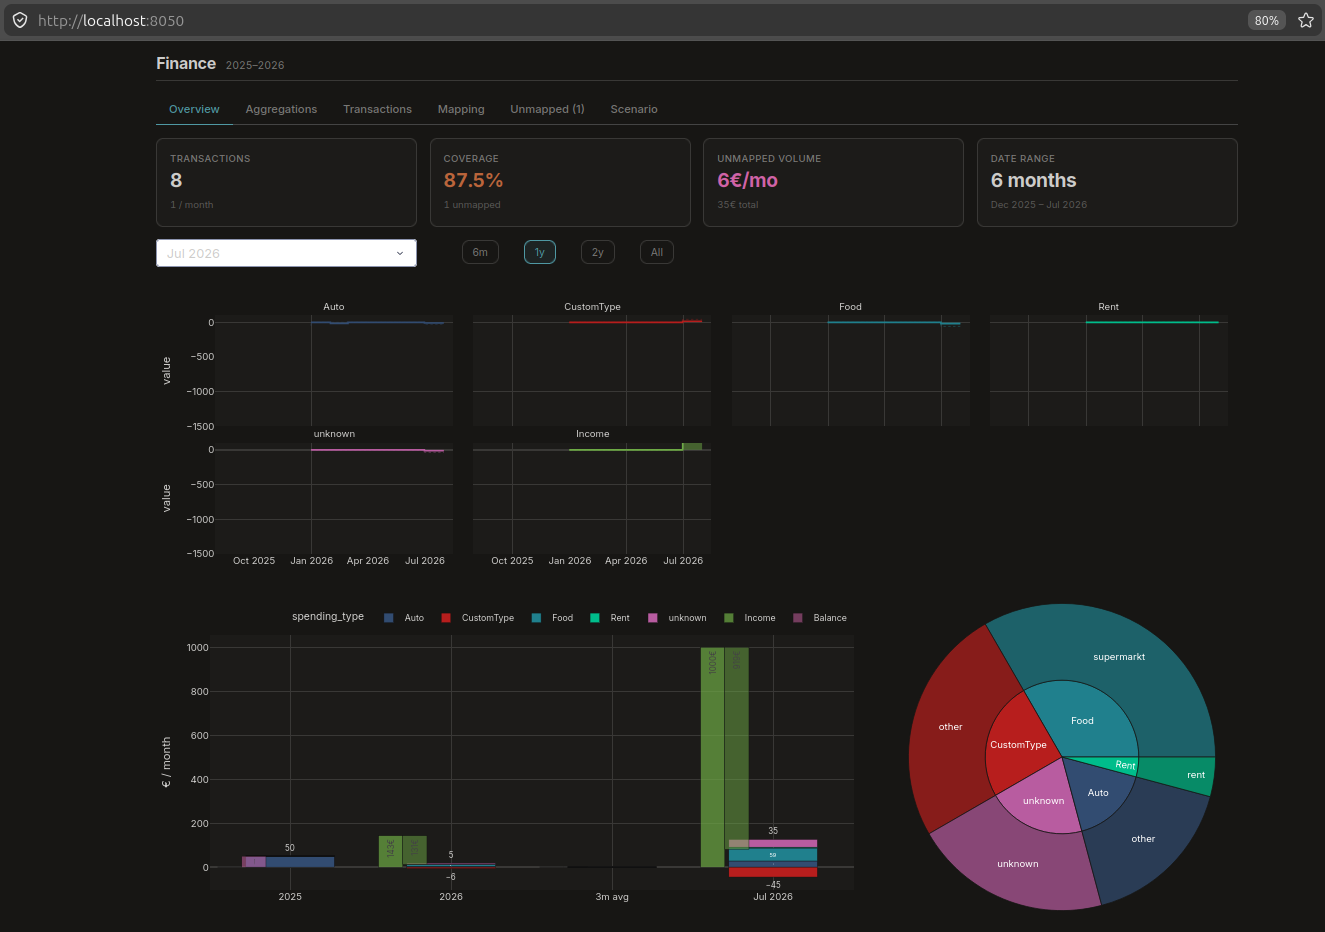
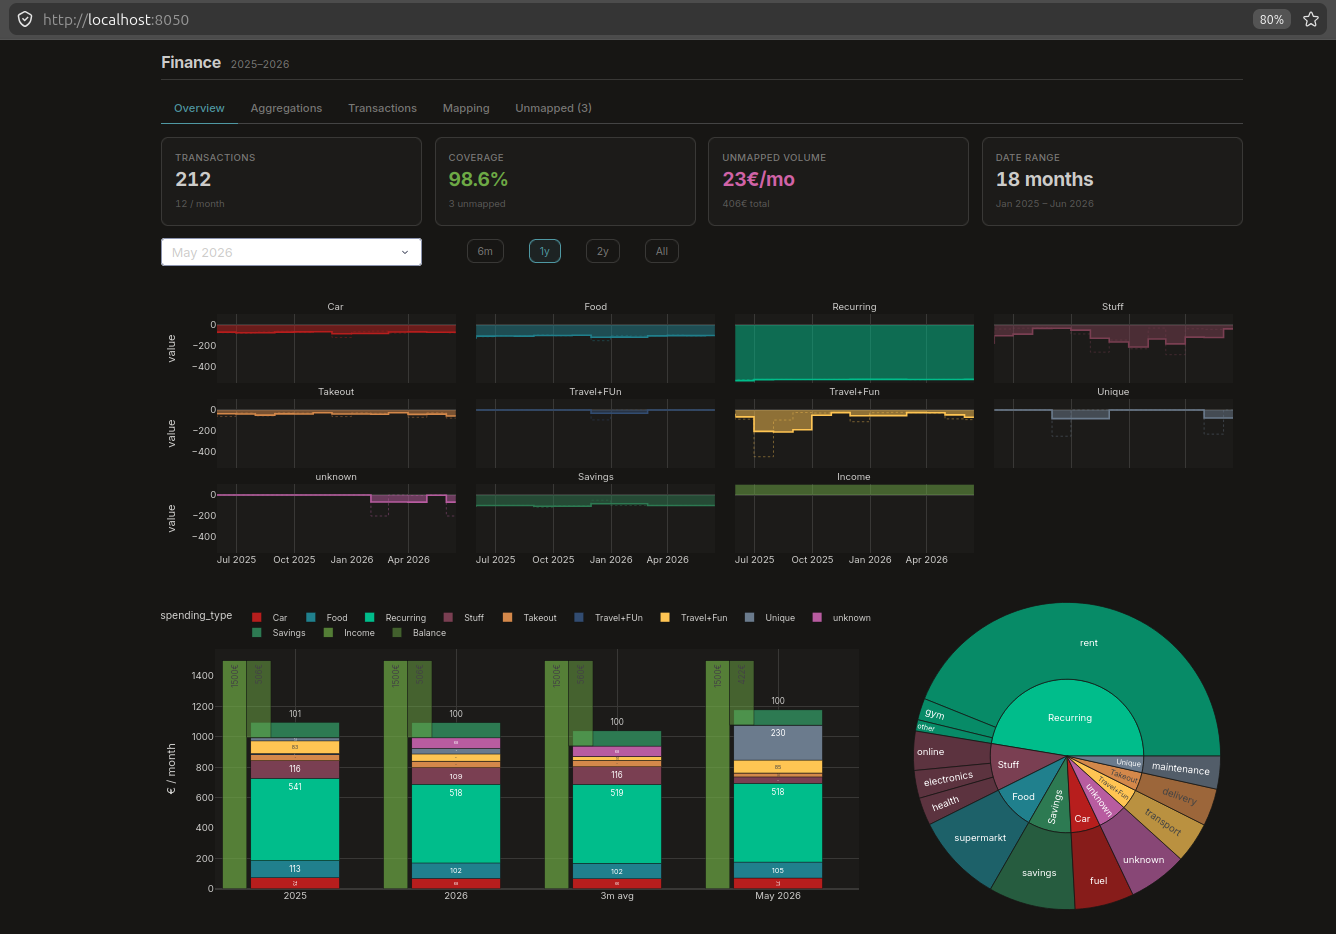
made n8n integration and scenario tab optional and disabled by default; fixed some sample data,, uodated readme

diff --git a/finance_dashboard/app.py b/finance_dashboard/app.py
@@ -49,8 +49,10 @@ AVG_WINDOW = CONFIG["analysis"]["avg_window"]
 THEME = CONFIG["app"]["theme"]
 EXTERNAL_STYLESHEETS = CONFIG["app"]["external_stylesheets"]
 GRAPH_CONFIG = CONFIG["app"]["graphs"]
-SCENARIO_YEAR = CONFIG["scenarios"]["reference_year"]
-SCENARIO_EXCLUDE_TYPES = set(CONFIG["scenarios"]["exclude_types"])
+SCENARIOS_ENABLED = isinstance(CONFIG.get("scenarios"), dict)
+SCENARIO_YEAR = CONFIG["scenarios"].get("reference_year", 2026) if SCENARIOS_ENABLED else 2026
+SCENARIO_EXCLUDE_TYPES = set(CONFIG["scenarios"].get("exclude_types", ["Income"])) if SCENARIOS_ENABLED else set()
+N8N_ENABLED = isinstance(CONFIG.get("n8n"), dict)
 SERVER_CONFIG = CONFIG["app"]["server"]
 
 # ── Data Pipeline ─────────────────────────────────────────────────────────
@@ -136,37 +138,41 @@ if ESSENTIALITY_FILE.exists():
         key = f"{row['type']}/{row['subtype']}"
         essentiality_defaults[key] = row["essentiality"]
 
-for (spending_type, subtype), col_data in costs_2025_subtypes.items():
-    if spending_type in SCENARIO_EXCLUDE_TYPES:  # Skip configured excluded types for scenario planning
-        continue
-    baseline_amount = col_data.mean()
-    key = f"{spending_type}/{subtype}"
-    baseline_data.append({
-        "type": spending_type,
-        "subtype": subtype,
-        "baseline": -baseline_amount,  # Flip sign: show expenses as positive
-        "scenario_amount": -baseline_amount,
-        "delta": 0,
-        "essentiality": essentiality_defaults.get(key, "adjustable"),
-    })
+if SCENARIOS_ENABLED:
+    for (spending_type, subtype), col_data in costs_2025_subtypes.items():
+        if spending_type in SCENARIO_EXCLUDE_TYPES:  # Skip configured excluded types for scenario planning
+            continue
+        baseline_amount = col_data.mean()
+        key = f"{spending_type}/{subtype}"
+        baseline_data.append({
+            "type": spending_type,
+            "subtype": subtype,
+            "baseline": -baseline_amount,  # Flip sign: show expenses as positive
+            "scenario_amount": -baseline_amount,
+            "delta": 0,
+            "essentiality": essentiality_defaults.get(key, "adjustable"),
+        })
 
-baseline_df = pd.DataFrame(baseline_data).sort_values(["type", "subtype"]).reset_index(drop=True)
+    baseline_df = pd.DataFrame(baseline_data).sort_values(["type", "subtype"]).reset_index(drop=True)
 
-# Prepare initial table data for scenario tab
-initial_scenario_table_data = []
-for _, row in baseline_df.iterrows():
-    baseline_amount = row["baseline"]
-    initial_scenario_table_data.append({
-        "type": row["type"],
-        "subtype": row["subtype"],
-        "essentiality": row["essentiality"],
-        "baseline": round(baseline_amount, 0),
-        "scenario_amount": round(baseline_amount, 0),
-        "delta": 0,
-    })
+    # Prepare initial table data for scenario tab
+    initial_scenario_table_data = []
+    for _, row in baseline_df.iterrows():
+        baseline_amount = row["baseline"]
+        initial_scenario_table_data.append({
+            "type": row["type"],
+            "subtype": row["subtype"],
+            "essentiality": row["essentiality"],
+            "baseline": round(baseline_amount, 0),
+            "scenario_amount": round(baseline_amount, 0),
+            "delta": 0,
+        })
 
-# Calculate average monthly income for income ceiling indicator
-income_2025 = -df_2025[df_2025[COLS["type"]] == "Income"][COLS["amount"]].sum() / max(df_2025[COLS["value_date"]].dt.month.nunique(), 1) if not df_2025.empty else 0
+    # Calculate average monthly income for income ceiling indicator
+    income_2025 = -df_2025[df_2025[COLS["type"]] == "Income"][COLS["amount"]].sum() / max(df_2025[COLS["value_date"]].dt.month.nunique(), 1) if not df_2025.empty else 0
+else:
+    initial_scenario_table_data = []
+    income_2025 = 0
 
 # ── App Setup ─────────────────────────────────────────────────────────────
 
@@ -657,12 +663,12 @@ tab_unmapped = dbc.Tab(
                     className="section-sub",
                 ),
                 dcc.Graph(id="unknowns-chart", figure=make_unknowns_bar(unknowns)),
-            ], md=7),
+            ], md=12 if not N8N_ENABLED else 7),
             dbc.Col([
                 html.H5("n8n Export", className="section-title"),
                 html.P(
                     "Unknown transactions are auto-exported to "
-                    "data/unknowns_for_n8n.json on startup. "
+                    f"{CONFIG['paths']['unknowns_for_n8n']} on startup. "
                     "Use this file as webhook payload in your n8n workflow.",
                     className="section-sub",
                 ),
@@ -678,7 +684,7 @@ tab_unmapped = dbc.Tab(
                         ], style={"fontSize": "13px"}),
                     ])
                 ], className="kpi-card", style={"marginTop": "16px"}),
-            ], md=5),
+            ], md=5) if N8N_ENABLED else None,
         ]),
     ],
 )
@@ -701,7 +707,7 @@ app.layout = html.Div([
     dbc.Tabs(
         id="main-tabs",
         active_tab="tab-overview",
-        children=[tab_overview, tab_aggregates,tab_transactions, tab_mapping, tab_unmapped, scenario_layout(initial_scenario_table_data)],
+        children=[tab_overview, tab_aggregates, tab_transactions, tab_mapping, tab_unmapped] + ([scenario_layout(initial_scenario_table_data)] if SCENARIOS_ENABLED else []),
         className="main-tabs",
     ),
 
@@ -711,7 +717,7 @@ app.layout = html.Div([
         "overrides": {},
         "essentiality": essentiality_defaults,  # Initialize with CSV defaults
         "baseline_income": float(income_2025) if income_2025 > 0 else -float(income_2025),
-    }),
+    }) if SCENARIOS_ENABLED else None,
 ], className="app-container")
 
 

diff --git a/finance_dashboard/config.py b/finance_dashboard/config.py
@@ -22,10 +22,7 @@ DEFAULT_CONFIG: dict[str, Any] = {
         "rolling_window_months": 3,
         "reorder_last": ["Savings", "Income"],
     },
-    "scenarios": {
-        "reference_year": 2026,
-        "exclude_types": ["Income"],
-    },
+    "scenarios": None,
     "app": {
         "theme": "DARKLY",
         "external_stylesheets": [
@@ -33,6 +30,7 @@ DEFAULT_CONFIG: dict[str, Any] = {
         ],
         "graphs": {
             "display_mode_bar": False,
+            "timeseries_y_range": [-1500, 100],
         },
         "server": {
             "host": "0.0.0.0",
@@ -40,9 +38,7 @@ DEFAULT_CONFIG: dict[str, Any] = {
             "debug": True,
         },
     },
-    "n8n": {
-        "unknowns_output": "data/unknowns_for_n8n.json",
-    },
+    "n8n": None,
 }
 
 
@@ -64,14 +60,18 @@ def _resolve_path(value: str | Path, root: Path) -> Path:
 def _resolve_data_paths(config: dict[str, Any]) -> dict[str, Path]:
     data_cfg = config["data"]
     data_dir = _resolve_path(data_cfg["base_dir"], ROOT_DIR)
-    return {
+    paths = {
         "data_dir": data_dir,
         "mapping_file": _resolve_path(data_cfg["mapping_file"], data_dir),
         "essentiality_file": _resolve_path(data_cfg["essentiality_file"], data_dir),
         "raw_exports_dir": _resolve_path(data_cfg["raw_exports_dir"], ROOT_DIR),
         "ledger_dir": _resolve_path(data_cfg["ledger_dir"], ROOT_DIR),
-        "unknowns_for_n8n": _resolve_path(config["n8n"]["unknowns_output"], ROOT_DIR),
     }
+    if isinstance(config.get("n8n"), dict):
+        paths["unknowns_for_n8n"] = _resolve_path(config["n8n"]["unknowns_output"], ROOT_DIR)
+    else:
+        paths["unknowns_for_n8n"] = None
+    return paths
 
 
 def load_config(config_path: Path | None = None) -> dict[str, Any]:

diff --git a/finance_dashboard/charts.py b/finance_dashboard/charts.py
@@ -5,6 +5,7 @@ All chart creation logic isolated here for testability.
 import pandas as pd
 import plotly.express as px
 import plotly.graph_objects as go
+from finance_dashboard.config import CONFIG
 from finance_dashboard.data_loader import COLS
 
 # ── Color Palette (finance-appropriate: cool, precise) ─────────────────────
@@ -99,7 +100,8 @@ def make_timeseries(
         min_dt = pd.Timestamp(selected_month) - pd.DateOffset(months=int(timeline_months))
         fig.update_xaxes(range=[min_dt, max_dt], title="")
 
-    fig.update_yaxes(range=[-1500, 100])
+    timeseries_y_range = CONFIG["app"]["graphs"].get("timeseries_y_range", [-1500, 100])
+    fig.update_yaxes(range=timeseries_y_range)
     fig.for_each_annotation(lambda a: a.update(text=a.text.split("=")[-1]))
 
     # Raw values overlay (dotted)

diff --git a/README.md b/README.md
@@ -22,6 +22,10 @@ Run the app:
 uv run python -m finance_dashboard.app
 ```
 
+## Configuration
+
+Most runtime settings now live in [finance_dashboard/config.yaml](finance_dashboard/config.yaml). Adjust paths, chart defaults, and other app behavior there without changing Python code.
+
 ## Folder structure
 
 ```text
